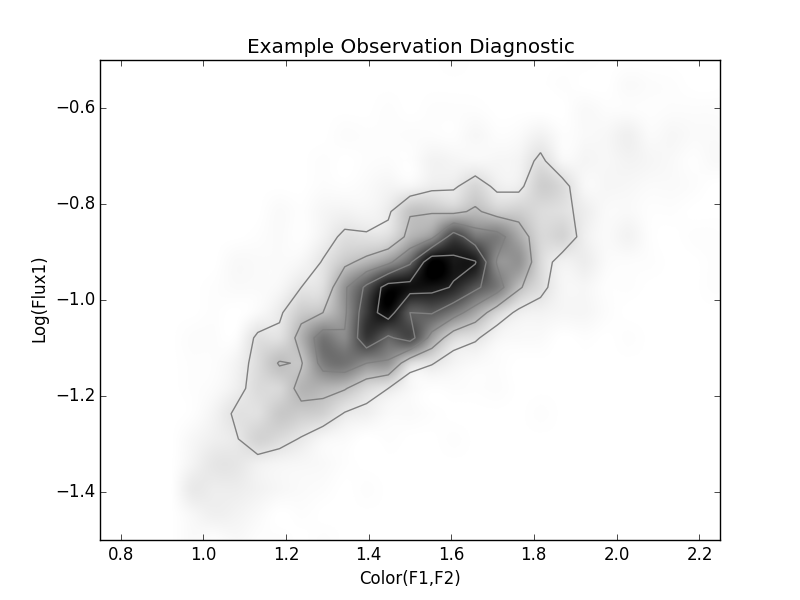
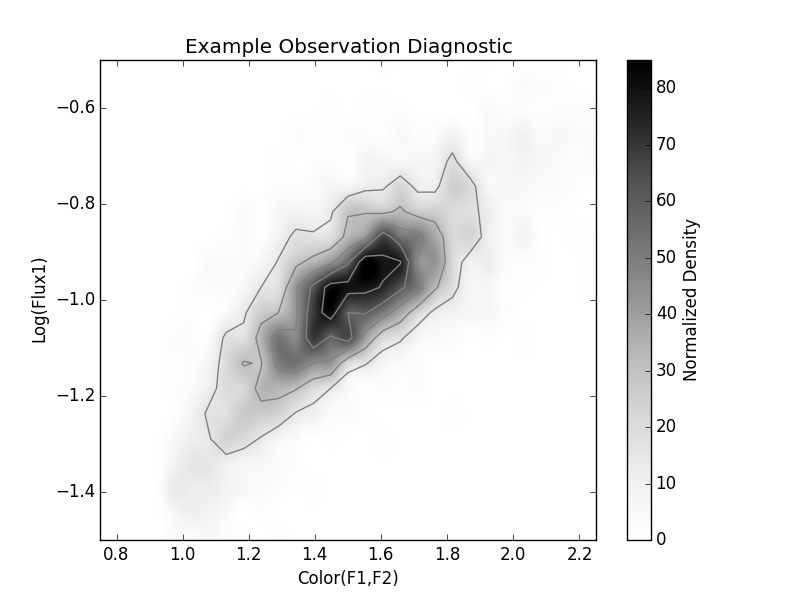
updated confidence interval settings

diff --git a/trunk/python/OutputFile.py b/trunk/python/OutputFile.py
@@ -6,6 +6,7 @@ import numpy
 from numpy import std
 from math import ceil
 import os
+import Tkinter as tk
 
 from ModelFile import keyPrint
 
@@ -27,6 +28,12 @@ def MCMCcontour(x,y):
     H, xedges, yedges = numpy.histogram2d(y, x, bins=(nbins2d(y), nbins2d(x)),normed=True)
     extent = [yedges[0], yedges[-1], xedges[0], xedges[-1]]
     cset = plt.contour(H, origin="lower",colors="black",extent=extent)
+
+def maxWindowSize():
+    root=tk.Tk()
+    root.state('withdrawn')
+    size=root.maxsize()
+    return size
 
 class FitInfo:
 
@@ -151,8 +158,11 @@ class FitImage:
     def __str__(self):
         return "Image: "+self.name
 
-    def plot(self,interpolation='none',cmap=cm.Greys):
+    def plot(self,interpolation='none',cmap=cm.Greys,labelCbar=True):
         plt.imshow(self.img, interpolation=interpolation, cmap=cmap, extent=self.extent, aspect='auto')
+        cbar=plt.colorbar()
+        if(labelCbar):
+            cbar.set_label("Normalized Density")
         plt.contour(self.img, interpolation=interpolation, colors='grey', extent=self.extent, origin='image', aspect='auto')
         plt.xlabel("AXIS 1")
         plt.ylabel("AXIS 2")
@@ -309,6 +319,7 @@ class MCMCInfo:
             for j in range(0,len(pnames)):
                 if(i >= j):
                     plt.subplot(dim,dim,i*dim+j+1)
+                    plt.subplots_adjust(hspace = .05, wspace=0.05)
                 if(i == j):
                     datapts=self.Parameters[pnames[i]]
                     plt.hist(datapts,
@@ -318,15 +329,24 @@ class MCMCInfo:
                          color="black")
                     if(j == 0):
                         plt.ylabel("Relative Probability")
+                    else:
+                        plt.setp( plt.gca().get_yticklabels(), visible=False)
                 elif(i > j):
                     MCMCcontour(self.Parameters[pnames[j]],self.Parameters[pnames[i]])
                     if(j == 0):
                         plt.ylabel(pnames[i])
+                    else:
+                        plt.setp( plt.gca().get_yticklabels(), visible=False)
                 if(i == (len(pnames)-1)):
                     plt.xlabel(pnames[j])
+                else:
+                    plt.setp( plt.gca().get_xticklabels(), visible=False)
 
     def showFit(self,block=True):
-        plt.figure(figsize=(12,8))
+        my_dpi=116
+        maxsize=maxWindowSize()
+        figsize=(maxsize[0]/float(my_dpi)-0.25,maxsize[1]/float(my_dpi)-0.5)
+        plt.figure(figsize=figsize)
         self.plotFit()
         plt.show(block=block)
 
@@ -431,7 +451,7 @@ class OutputFile:
         for key in self.images.keys():
             col=col+1
             plt.subplot(1,3,col)
-            self.images[key].plot()
+            self.images[key].plot(labelCbar=False)
             if(col > 1):
                 plt.ylabel("")
 
@@ -484,15 +504,15 @@ class OutputFile:
         for key in self.images.keys():
             col=col+1
             plt.subplot(rows,3,col+6)
-            self.images[key].plot()
+            self.images[key].plot(labelCbar=False)
             if(col > 1):
                 plt.ylabel("")
         plt.tight_layout()
        
     def show(self,block=True):
-        #plt.figure(figsize=(16,10))
         my_dpi=116 
-        plt.figure(figsize=(1600/my_dpi, 1200/my_dpi), dpi=my_dpi)
-        print 'hello'
+        maxsize=maxWindowSize()
+        figsize=(maxsize[0]/float(my_dpi)-0.25,maxsize[1]/float(my_dpi)-0.5)
+        plt.figure(figsize=figsize, dpi=my_dpi)
         self.plot()
         plt.show(block=block)

diff --git a/trunk/src/functions.cpp b/trunk/src/functions.cpp
@@ -189,7 +189,7 @@ void Configuration::print(){
   printf("  Convergence Step     : %lu\n",conv_step);
   printf("  Run:Burn-In          : %lu\n",burn_ratio);
   printf("  Convergence Criterion: %4.2f\n",rmax);
-  printf("  Confidence Interval  : %4.2f\n",a_ci);
+  printf("  Confidence Interval  : %4.2f%%\n",1-a_ci);
  
   printf("\nSimulation Settings:\n");
   printf("  Run Number Max       : %lu\n",runs);
@@ -317,8 +317,8 @@ void Configuration::load(){
     conv_step = static_cast<unsigned long>(rtemp);
     tab.readKey("BURNVRUN",rtemp);
     burn_ratio = static_cast<unsigned long>(rtemp);
-    //tab.readKey("CONV_RMA",rmax);
-    tab.readKey("CONV_CON",a_ci);
+    tab.readKey("CONV_CON",rtemp);
+    a_ci=1-rtemp;
     rmax=1+a_ci;
     tab.readKey("PRINT",rtemp);
     oprint = rtemp; // == 0.0 ? true : false; 

diff --git a/trunk/python/ModelFile.py b/trunk/python/ModelFile.py
@@ -102,7 +102,7 @@ class ModelFile:
         self.colsel='None'
         self.convergence={
             'step':20,
-            'CI':0.01}
+            'CI':0.9}
         self.annealing={
             'ideal_pct':0.25,
             'range':0.05,
@@ -256,7 +256,7 @@ class ModelFile:
         hdr.set('ANN_PCT',self.annealing['ideal_pct'],'Ideal acceptance Percentage')
         hdr.set('ANN_RNG',self.annealing['range'],'Range to maintain acceptance')
 
-        hdr.set('CONV_CON',self.convergence['CI'],'Convergence confidence interval') 
+        hdr.set('CONV_CON',self.convergence['CI'],'Convergence confidence interval (fraction)') 
         hdr.set('CONV_STE',self.convergence['step'],'Steps btw convergence checks')
 
         hdr.set('BURN_STE',self.annealing['burn_step'],'Steps btw anneal calls in burn-in')

diff --git a/Examples/plot_images.py b/Examples/plot_images.py
@@ -13,11 +13,12 @@ else:
     file=sys.argv[1]
     output=OutputFile(file)
     output.info()
-    plt.clf()
-    output.images['observation'].plot(cmap=cm.Greys,interpolation='Spline16')
-    plt.xlim(0.75,2.25)
-    plt.ylim(-1.5,-.5)
-    plt.ylabel("Log(Flux1)")
-    plt.xlabel("Color(F1,F2)")
-    plt.title('Example Observation Diagnostic')
-    plt.savefig('example_diag')
+    for k,v in output.images.iteritems():
+        plt.clf()
+        v.plot(cmap=cm.Greys,interpolation='Spline16')
+        plt.xlim(0.75,2.25)
+        plt.ylim(-1.5,-.5)
+        plt.ylabel("Log(Flux1)")
+        plt.xlabel("Color(F1,F2)")
+        plt.title('Example Diagnostic: '+k)
+        plt.savefig('example_diag_'+k)

diff --git a/Examples/run_analysis.py b/Examples/run_analysis.py
@@ -29,8 +29,7 @@ mod.settings['verbosity']=3
 mod.annealing['temp']=.05
 mod.annealing['learningRate']=2
 
-mod.convergence['r_max']=1.10
-mod.convergence['CI']=0.1
+mod.convergence['CI']=0.9
 
 mod.write('spire_model.fits')
 mod.info()
